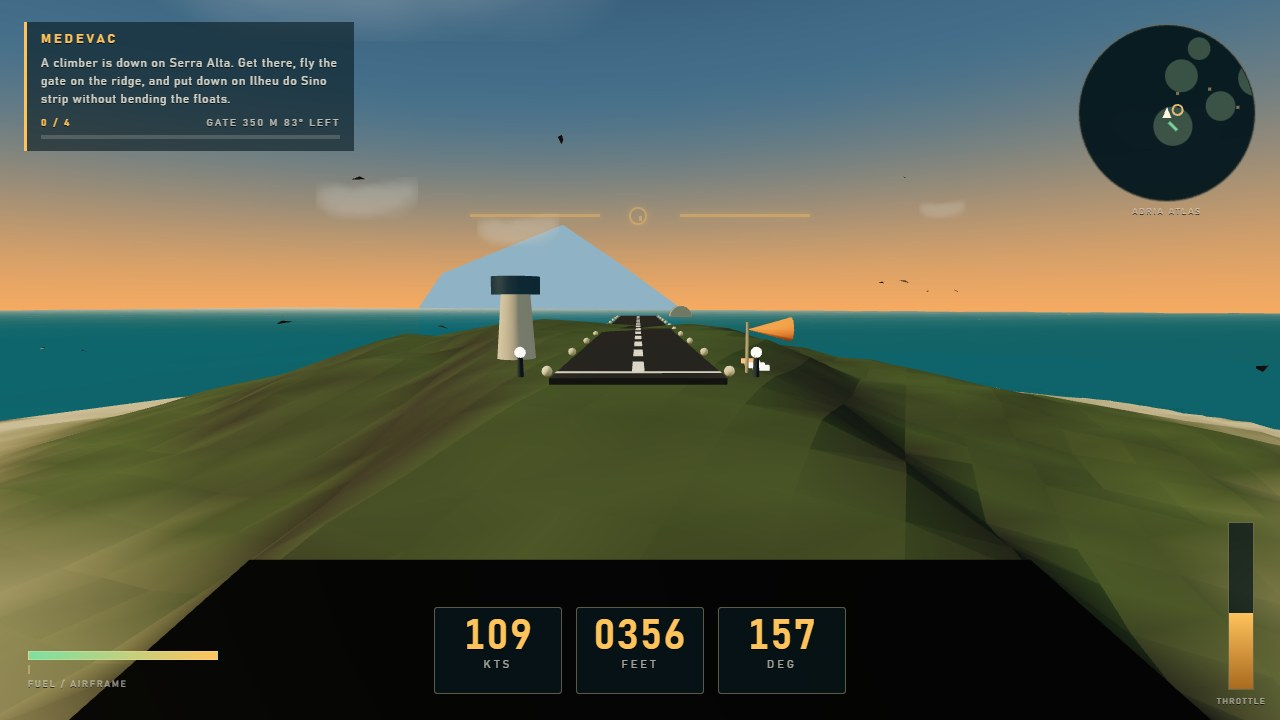
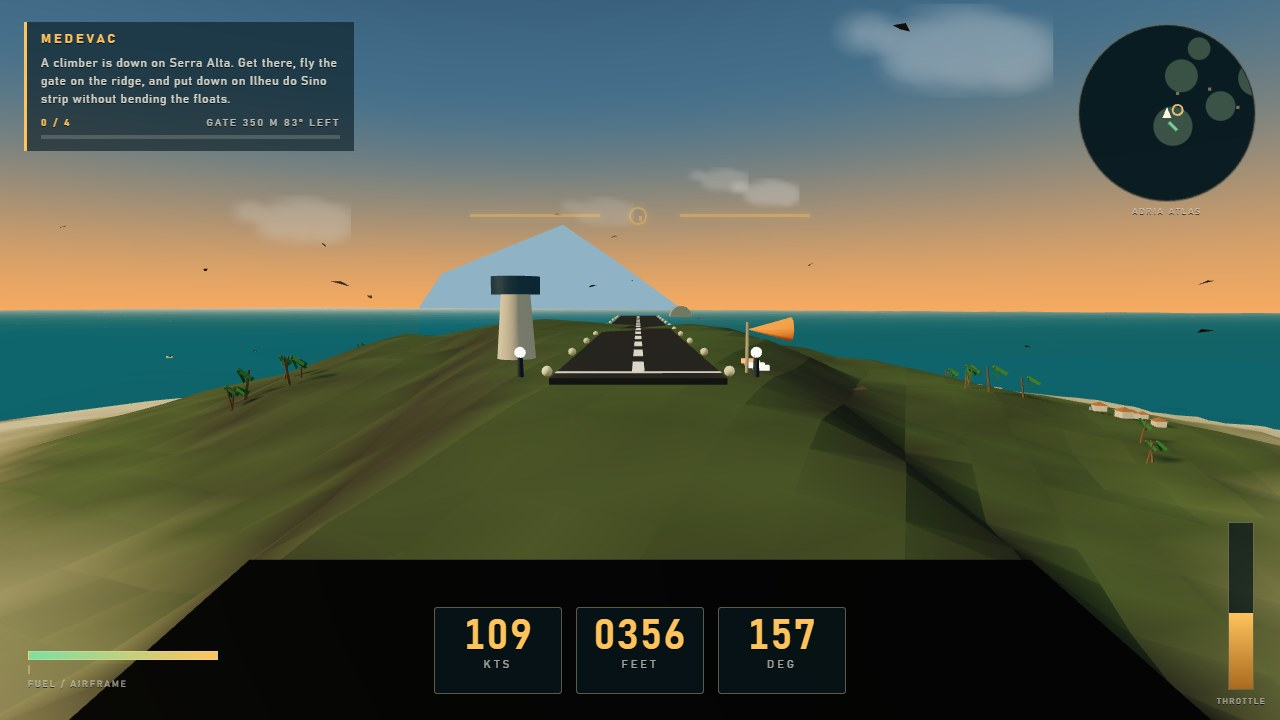
Palm groves and fishing hamlets, cockpit caldera pass shot

diff --git a/game/src/terrain/vegetation.js b/game/src/terrain/vegetation.js
@@ -1,0 +1,107 @@
+// The islands are lived in: palm groves along the shores and a few fishing hamlets of
+// tin-roofed huts. Scattered deterministically, drawn as instanced meshes.
+
+import * as THREE from 'three';
+import { ISLANDS, AIRSTRIPS, groundAt } from './heightfield.js';
+import { generatePalm, generateHut } from './buildProps.js';
+
+function seeded(seed) {
+  let state = seed >>> 0;
+  return () => {
+    state = (state + 0x9e3779b9) >>> 0;
+    let t = state;
+    t = Math.imul(t ^ (t >>> 16), 0x21f0aaad);
+    t = Math.imul(t ^ (t >>> 15), 0x735a2d97);
+    return ((t ^= t >>> 15) >>> 0) / 4294967296;
+  };
+}
+
+function clearOfStrips(x, z, margin = 70) {
+  for (const strip of AIRSTRIPS) {
+    const dx = x - strip.x;
+    const dz = z - strip.z;
+    const along = dx * Math.sin(strip.heading) + dz * Math.cos(strip.heading);
+    const across = dx * Math.cos(strip.heading) - dz * Math.sin(strip.heading);
+    if (Math.abs(along) < strip.length / 2 + margin && Math.abs(across) < strip.width * 3 + margin) return false;
+  }
+  return true;
+}
+
+export function buildVegetation(scene) {
+  const random = seeded(88213);
+  const palms = [];
+  const huts = [];
+
+  for (const island of ISLANDS) {
+    const groves = 26;
+    for (let i = 0; i < groves; i++) {
+      const angle = random() * Math.PI * 2;
+      const reach = island.r * (0.34 + random() * 0.62);
+      const x = island.x + Math.cos(angle) * reach;
+      const z = island.z + Math.sin(angle) * reach;
+      const height = groundAt(x, z);
+      if (height < 3 || height > 120 || !clearOfStrips(x, z)) continue;
+      const cluster = 2 + Math.floor(random() * 5);
+      for (let c = 0; c < cluster; c++) {
+        const px = x + (random() - 0.5) * 46;
+        const pz = z + (random() - 0.5) * 46;
+        const ph = groundAt(px, pz);
+        if (ph < 2.5 || ph > 130) continue;
+        palms.push({ x: px, y: ph, z: pz, scale: 1.25 + random() * 0.95, turn: random() * Math.PI * 2 });
+      }
+    }
+
+    // A hamlet or two, on the flat ground near the shore.
+    if (island.r > 330) {
+      for (let i = 0; i < 2; i++) {
+        const angle = random() * Math.PI * 2;
+        const reach = island.r * (0.42 + random() * 0.24);
+        const x = island.x + Math.cos(angle) * reach;
+        const z = island.z + Math.sin(angle) * reach;
+        const height = groundAt(x, z);
+        if (height < 4 || height > 70 || !clearOfStrips(x, z, 110)) continue;
+        const count = 3 + Math.floor(random() * 4);
+        for (let h = 0; h < count; h++) {
+          const hx = x + (random() - 0.5) * 60;
+          const hz = z + (random() - 0.5) * 60;
+          const hh = groundAt(hx, hz);
+          if (hh < 3 || hh > 80) continue;
+          huts.push({ x: hx, y: hh, z: hz, scale: 1.05 + random() * 0.6, turn: Math.round(random() * 4) * (Math.PI / 2) + random() * 0.4 });
+        }
+      }
+    }
+  }
+
+  const palmMesh = new THREE.InstancedMesh(generatePalm(), palmMaterial(), palms.length);
+  const hutMesh = new THREE.InstancedMesh(generateHut(), hutMaterial(), huts.length);
+  palmMesh.castShadow = true;
+  hutMesh.castShadow = true;
+  const matrix = new THREE.Matrix4();
+  const quat = new THREE.Quaternion();
+  const position = new THREE.Vector3();
+  const scale = new THREE.Vector3();
+
+  palms.forEach((palm, i) => {
+    quat.setFromAxisAngle(new THREE.Vector3(0, 1, 0), palm.turn);
+    position.set(palm.x, palm.y - 0.4, palm.z);
+    scale.setScalar(palm.scale);
+    palmMesh.setMatrixAt(i, matrix.compose(position, quat, scale));
+  });
+  huts.forEach((hut, i) => {
+    quat.setFromAxisAngle(new THREE.Vector3(0, 1, 0), hut.turn);
+    position.set(hut.x, hut.y - 0.2, hut.z);
+    scale.setScalar(hut.scale);
+    hutMesh.setMatrixAt(i, matrix.compose(position, quat, scale));
+  });
+
+  scene.add(palmMesh, hutMesh);
+  return { palms: palmMesh, huts: hutMesh };
+}
+
+function palmMaterial() {
+  return new THREE.MeshStandardMaterial({ vertexColors: true, roughness: 0.86, metalness: 0.04, flatShading: true });
+}
+
+function hutMaterial() {
+  return new THREE.MeshStandardMaterial({ vertexColors: true, roughness: 0.8, metalness: 0.08, flatShading: true });
+}

diff --git a/game/src/terrain/buildProps.js b/game/src/terrain/buildProps.js
@@ -1,0 +1,95 @@
+// Prop geometry: a leaning palm and a tin-roofed hut, each one merged, vertex-coloured geometry
+// so hundreds can be drawn as two instanced meshes.
+
+import * as THREE from 'three';
+
+function colourAll(geometry, hex) {
+  const colour = new THREE.Color(hex);
+  const count = geometry.attributes.position.count;
+  const colours = new Float32Array(count * 3);
+  for (let i = 0; i < count; i++) {
+    colours[i * 3] = colour.r;
+    colours[i * 3 + 1] = colour.g;
+    colours[i * 3 + 2] = colour.b;
+  }
+  geometry.setAttribute('color', new THREE.BufferAttribute(colours, 3));
+  return geometry;
+}
+
+function merge(parts) {
+  const positions = [];
+  const normals = [];
+  const colours = [];
+  for (const part of parts) {
+    const geometry = part.geometry.index ? part.geometry.toNonIndexed() : part.geometry;
+    geometry.applyMatrix4(part.matrix);
+    const position = geometry.attributes.position;
+    const normal = geometry.attributes.normal ?? position;
+    const colour = geometry.attributes.color;
+    for (let i = 0; i < position.count; i++) {
+      positions.push(position.getX(i), position.getY(i), position.getZ(i));
+      normals.push(normal.getX(i), normal.getY(i), normal.getZ(i));
+      colours.push(colour ? colour.getX(i) : 1, colour ? colour.getY(i) : 1, colour ? colour.getZ(i) : 1);
+    }
+  }
+  const out = new THREE.BufferGeometry();
+  out.setAttribute('position', new THREE.Float32BufferAttribute(positions, 3));
+  out.setAttribute('normal', new THREE.Float32BufferAttribute(normals, 3));
+  out.setAttribute('color', new THREE.Float32BufferAttribute(colours, 3));
+  return out;
+}
+
+export function generatePalm() {
+  const parts = [];
+  const trunk = new THREE.CylinderGeometry(0.26, 0.44, 8.4, 5, 3);
+  trunk.translate(0, 4.2, 0);
+  colourAll(trunk, '#7a6244');
+  const bend = new THREE.Matrix4().makeRotationZ(0.16);
+  parts.push({ geometry: trunk, matrix: bend });
+
+  const frondGeometry = new THREE.PlaneGeometry(4.6, 1.15, 4, 1);
+  const frondColour = new THREE.Color('#3f7a3c');
+  for (let i = 0; i < 7; i++) {
+    const frond = frondGeometry.clone();
+    frond.translate(2.1, 0, 0);
+    colourAll(frond, i % 2 === 0 ? '#3f7a3c' : '#356b34');
+    frondColour.offsetHSL(0, 0, 0);
+    const matrix = new THREE.Matrix4()
+      .makeTranslation(1.2, 8.2, 0)
+      .multiply(new THREE.Matrix4().makeRotationY((i / 7) * Math.PI * 2))
+      .multiply(new THREE.Matrix4().makeRotationZ(-0.5 - (i % 3) * 0.22));
+    parts.push({ geometry: frond, matrix });
+  }
+  const crown = new THREE.SphereGeometry(0.5, 6, 5);
+  crown.translate(1.15, 8.1, 0);
+  colourAll(crown, '#5b7a3a');
+  parts.push({ geometry: crown, matrix: new THREE.Matrix4() });
+
+  return merge(parts);
+}
+
+export function generateHut() {
+  const parts = [];
+  const walls = new THREE.BoxGeometry(4.6, 2.6, 3.8);
+  walls.translate(0, 1.3, 0);
+  colourAll(walls, '#d8cdb1');
+  parts.push({ geometry: walls, matrix: new THREE.Matrix4() });
+
+  const roof = new THREE.ConeGeometry(3.7, 1.5, 4);
+  roof.rotateY(Math.PI / 4);
+  roof.translate(0, 3.3, 0);
+  colourAll(roof, '#a9713f');
+  parts.push({ geometry: roof, matrix: new THREE.Matrix4() });
+
+  const door = new THREE.PlaneGeometry(1.1, 1.8);
+  door.translate(0, 0.9, 1.94);
+  colourAll(door, '#4d3a2a');
+  parts.push({ geometry: door, matrix: new THREE.Matrix4() });
+
+  const tank = new THREE.CylinderGeometry(0.7, 0.7, 1.4, 8);
+  tank.translate(2.7, 0.7, 1.1);
+  colourAll(tank, '#8b9aa0');
+  parts.push({ geometry: tank, matrix: new THREE.Matrix4() });
+
+  return merge(parts);
+}

diff --git a/game/src/shots.js b/game/src/shots.js
@@ -60,16 +60,16 @@ export const SHOTS = {
   ridge: ({ course }) => {
     const gate = pickLowGate(course, 2) ?? null;
     if (!gate) return { kind: 'survey' };
-    const from = behindGate(gate, 720, 96);
+    const from = behindGate(gate, 520, 40);
     const pose = aim(from, gate.position.clone().add(new THREE.Vector3(0, 16, 0)), { roll: 0.18, pitch: 0.03 });
     const bursts = [];
     const forward = new THREE.Vector3(0, 0, -1).applyQuaternion(pose.quaternion);
     for (let i = 0; i < 4; i++) {
-      const near = pose.position.clone().addScaledVector(forward, 150 + i * 55);
+      const near = pose.position.clone().addScaledVector(forward, 230 + i * 70);
       const side = i % 2 === 0 ? 1 : -1;
-      near.x += side * (150 + i * 32);
-      near.y += 34 + (i % 4) * 42;
-      bursts.push({ at: near, size: 13 + (i % 3) * 5 });
+      near.x += side * (170 + i * 40);
+      near.y += 46 + (i % 4) * 46;
+      bursts.push({ at: near, size: 10 + (i % 3) * 4 });
     }
     const trail = [];
     for (let i = 0; i < 7; i++) {
@@ -78,7 +78,7 @@ export const SHOTS = {
       puff.y += 1.4 + i * 0.8;
       trail.push({ at: puff, size: 2.2 + i * 0.75 });
     }
-    return { ...pose, speed: 84, throttle: 0.95, camera: 'chase', kind: 'survey', gate, hull: 44, bursts, trail };
+    return { ...pose, speed: 84, throttle: 0.95, camera: 'cockpit', kind: 'survey', gate, hull: 44, bursts, trail };
   },
 
   // Windward cliffs: the courier on the coast run, sea and rock below the wing.

diff --git a/game/src/main.js b/game/src/main.js
@@ -6,6 +6,7 @@ import { createRenderer, buildSky, applyCameraSettings } from './render/scene.js
 import { createCameraRig } from './render/cameras.js';
 import { buildCockpit } from './render/cockpit.js';
 import { buildTerrain, animateSea, airstripPad } from './terrain/buildIslands.js';
+import { buildVegetation } from './terrain/vegetation.js';
 import { AIRSTRIPS, ISLANDS, groundAt } from './terrain/heightfield.js';
 import { buildPlane } from './aircraft/buildPlane.js';
 import { createPlane } from './aircraft/flightModel.js';
@@ -28,6 +29,7 @@ const camera = new THREE.PerspectiveCamera(62, window.innerWidth / window.innerH
 applyCameraSettings(camera);
 buildSky(scene);
 const terrain = buildTerrain(scene);
+buildVegetation(scene);
 const sea = terrain.children.find((child) => child.userData?.wave);
 const traffic = buildTraffic(scene);
 const threat = createThreat(scene);
